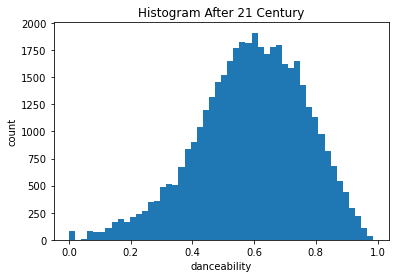
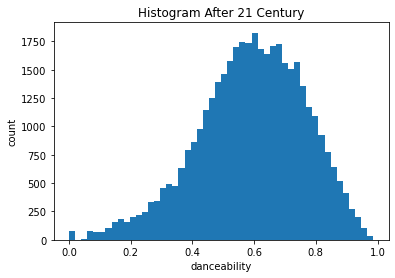
finishing up the results section

diff --git a/report/report.md b/report/report.md
@@ -1,22 +1,30 @@
-## Does Modern Day Music Lack Uniqueness Compared to Music before the 21st Century
-
-# Abstract
+## Does Modern Day Music Lack Uniqueness Compared to Music before the 21<sup>st</sup> Century
 
 # Introduction
 Music is one of the most influential elements in the arts. It has a great impact on the way humans act and feel. Research, done by Nina Avramova, has shown that different genres of music bring about different emotions and feelings through the listener. Nonetheless, humans also have a major impact on music itself. Music and humans are mutually dependent therefore when one evolves, so does the other. 
 
-This journal intends to progress the current understanding of if, how, and why music has changed since the 21st century. It also aims to determine if this change in music has led to a lack of uniqueness amongst the common features of a song compared to music before the 21st century. 
-
+This journal intends to progress the current understanding of if, how, and why music has changed since the 21<sup>st</sup> century. It also aims to determine if this change in music has led to a lack of uniqueness amongst the common features of a song compared to music before the 21<sup>st</sup> century. Thus, the null and alternative hypothesis is: H<sub>0</sub>: Music after 2001 has greater or equal to the same **variation** as music before 2001 vs H<sub>a</sub>: Music after 2001 has less **variation** than music prior to 2001. 
 # Data
 The data is located on Kaggle and was collected by a data scientist named Yamac Eren Ay. He collected more than 160,000 songs from Spotify that ranged from 1921 to 2020. Some of the features that this data set includes and will be used to conduct an analysis are: danceability, energy, acousticness, instrumentalness, valence, tempo, key, and loudness.  
 
+(insert DataFrame)
+
 **Danceability** describes how appropriate a track is for dancing by looking at multiple elements including tempo, rhythm stability, beat strength, and general regularity. The closer the value is to 0.0 the less danceable the song is and the closer it is to 1.0 the more danceable it is. **Energy** is a sensual measure of intensity and activity. Usually energetic songs feel fast, loud, and noisy. Perceptual features contributing to this attribute include dynamic range, perceived loudness, timbre, onset rate, and general entropy [5]. The closer this value is to 0.0 the less energetic the track is and the closer it is to 1.0 the more energetic the track is. **Acoustic** music refers to songs that are created using instruments and recorded in a natural environment opposed to being recorded by electronic means. The closer the value is to 0.0 the less acoustic it is and the closer it is to 1.0 the more acoustic it is. **Instrumentalness** predicts how vocal a track is. Thus, songs that contain words other than "Oh" and "Ah" are considered vocal. The closer the value is to 0.0 the less likely the track contains vocals and the closer the value is to 1.0 the more likely it contains vocals. A measure from 0.0 to 1.0 describing the musical positiveness conveyed by a track. Tracks with high valence sound more positive (e.g. happy, cheerful, euphoric), while tracks with low valence sound more negative (e.g. sad, depressed, angry) [5]. **Valence** describes the musical positiveness expressed through a song. Tracks with high valence (closer to 0.0) sound more positive (e.g. happy, cheerful, euphoric), while tracks with low valence (closer to 1.0) sound more negative (e.g. sad, depressed, angry) [5]. **Tempo** is the overall pace of a trace measured in BPS (beats per minute). **Key** is the overall approximated pitch that a song is played in. The possible keys and their integer values are: C = 0; C# = 1; D = 2; D#, Eb = 3; E = 4; F = 5; F#, Gb = 6; G = 7; G#, Ab = 8; A = 9; A#, Bb = 10; B, Cb = 11. The overall **loudness** of a track is measured in decibels (dB). Loudness values are averaged across the entire track and are useful for comparing relative loudness of tracks. Loudness is the quality of a sound that is the primary psychological correlate of physical strength (amplitude). Values typical range between -60 and 0 db [5].
 # Methods
+Data analysis was used to answer this papers research question. The data set was imported into Jupyter notebook using pandas, a software library built for data manipulation and analysis. The first step was cleaning the data. The data set contained 169,909 rows and 19 columns. After dropping rows where at least one column had NaN values, values that are undefined or unrepresentable, the data set still contained all 169,909 rows. Thus, the data set was cleaned by Yamac Ay. The second step in the data analysis was editing the data. The objective of this research was to compare music tracks before the 21<sup>st</sup>century to tracks after the 21<sup>st</sup>century and see if, how, and why they differ. As well as do tracks after the 21<sup>st</sup> century lack uniqueness compared to tracks that were created prior to the 21<sup>st</sup>century. 
+
+When Yamac Ay collected the data he separated it into five comma-separated values (csv) files. The first file, titled data.csv, contained all the information that was needed to conduct a data analysis. Although, this file contained the feature "year" that was required to analyze the data based on the period of time, it still needed to be manipulated to distinguish what years were attributed to before and after the 21<sup>st</sup>century. A python script was built to create a new column titled "years_split" that sorted all rows into qualitative binary values. These values were defined as "before_21st_century" and "after_21st_century". Rows where the tracks feature "year" were between 0 and 2000 were assigned to "before_21st_century" and tracks where the feature "year" were between 2001 and 2020 were assigned to "after_21st_century". It is important to note that over 76% of the rows were attributed to "before_21st_century". Therefore, the majority of tracks collected in this dataset were released before 2001. 
 
 # Results
-The data set was imported into jupyter notebook and manipulated so that only rows that had a genre of hip hop or rap were shown. Matplotlib was then used to create a histogram of the column 'danceability'. This plot shows that all hip hop songs from 1921 to 2020 have a range of 0 to 1 but most hip hop songs fall between 0.6 and 0.9.
+The features that were analyzed were quantitative values. Thus, it was decided that histograms were the best plots for examining and comparing the data. The first feature that was analyzed was "danceability".  ![](/Users/rayadams/Documents/GitHub/fa20-523-333/images/danceability_histogram_before_and_after_21stcentury.png)   
 
-# references
+The histogram assigned to "before_21st_century" resembles a normal distribution. The **mean** of the histogram is 0.52 while the **mode** is 0.57. The **variance** of the data is 0.02986. The histogram assigned to "after_21st_century" closely resembles a normal distribution. The **mean** is 0.59 and the **mode** is 0.61. The **variance** of the data is 0.02997. Using statistics to compare these two sample populations we receive a two-tailed P value is less than 0.0001. We set our alpha = 0.01. Therefore, the P value implies that "we have reasonable grounds to support the alternate hypothesis and reject the null hypothesis [6]." 
+
+The second feature that was analyzed was "energy". (insert plot) The histogram assigned to "before_21st_century" does not resemble a normal distribution. The **mean** of the histogram is 0.44 while the **mode** is 0.25. The **variance** of the data is 0.06819. The histogram assigned to "after_21st_century" also does not resemble a normal distribution. The **mean** is  0.65 and the **mode** is 0.73. The **variance** of the data is 0.05030. The two-tailed P value is less than 0.0001. We set our alpha = 0.01. The P value shows that the difference is extremely statistically significant. Thus, we reject the null hypothesis. It is also important to not that the modes have a massive difference of 0.48. This means that music has become much more energetic after the 21<sup>st</sup> century. 
+
+The third feature that was analyze was "acousticness". (insert plot) Neither histograms, "before_21st_century" & "after_21st_century", resemble a normal distribution. The **mean** of the histogram is 0.57 while the **mode** is 0.995. The **variance** of the data is 0.13687. The histogram assigned to "after_21st_century" also does not resemble a normal distribution. The **mean** is  0.26 and the **mode** is 0.114. The **variance** of the data is 0.08445.
+
+# References
 [1] Nina Avramova, C., 2020. How Music Can Change The Way You Feel And Act. [online] CNN. Available at: <https://www.cnn.com/2019/02/08/health/music-brain-behavior-intl/index.html> [Accessed 5 November 2020].
 
 [2] Savage, P., 2019. Cultural evolution of music. Palgrave Communications, 5(1).
@@ -27,3 +35,4 @@ The data set was imported into jupyter notebook and manipulated so that only row
 
 [5] Developer.spotify.com. 2020. _Get Audio Features For A Track | Spotify For Developers_. [online] Available at: <https://developer.spotify.com/documentation/web-api/reference/tracks/get-audio-features/> [Accessed 6 November 2020].
 
+[6] dzone.com. 2020. _What Is P-Value (In Layman Terms)? - Dzone Big Data_. [online] Available at: <https://dzone.com/articles/what-is-p-value-in-layman-terms> [Accessed 8 November 2020].
